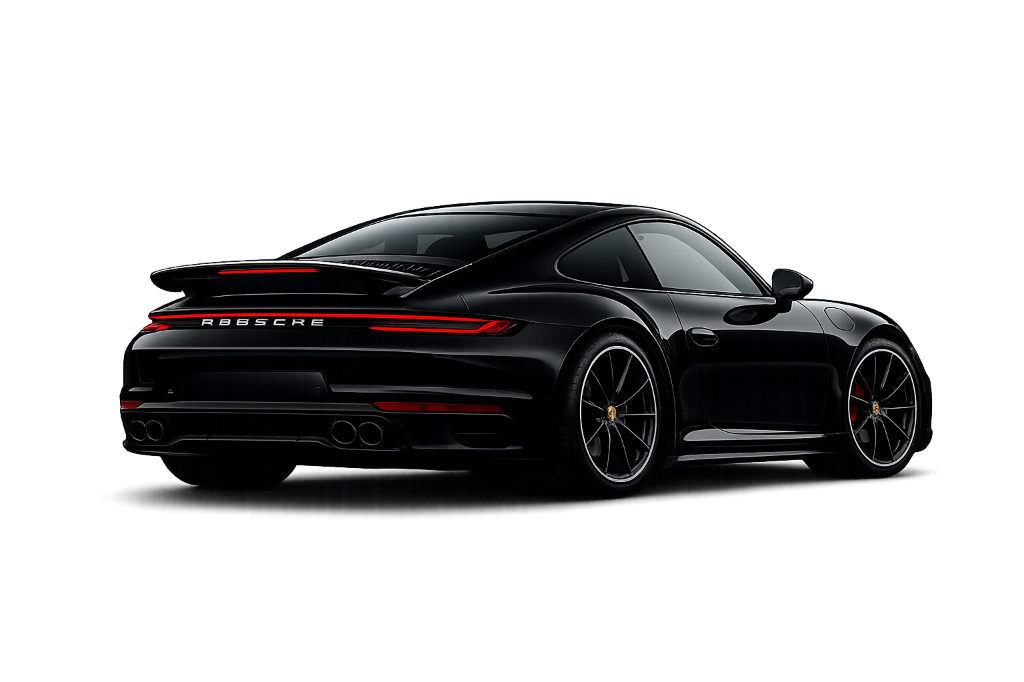
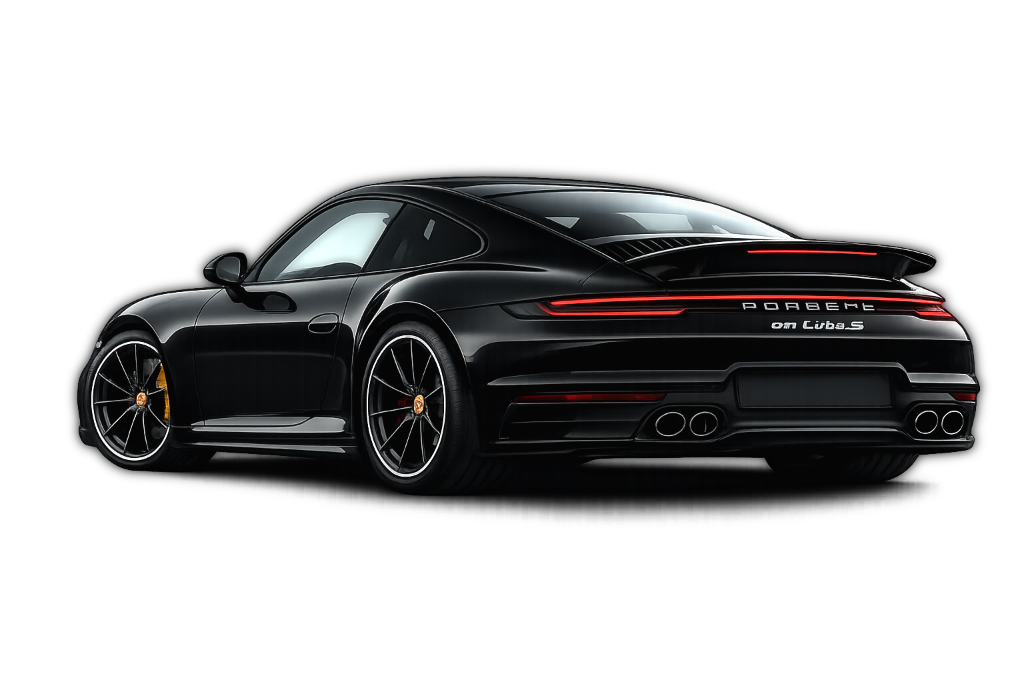
release: v2.0.0 — Porsche Command Center AI Executive Suite v2

Changed region(s): [[0.0625, 0.2463, 0.9688, 0.7698]]

diff --git a/src/pages/Overview.tsx b/src/pages/Overview.tsx
@@ -49,30 +49,30 @@ export default function Overview() {
         </div>
       </div>
 
-      {/* 2. MAIN HERO SECTION (Headline & Dual White/Black Porsche 911 Cutouts) */}
-      <div className="relative min-h-[280px] flex items-center justify-between gap-6 py-2 overflow-visible">
+      {/* 2. MAIN HERO SECTION (Headline & Massive Floating Transparent Porsche 911 Cutout) */}
+      <div className="relative min-h-[360px] flex items-center justify-between gap-4 py-2 overflow-visible">
         {/* Ambient Red Studio Lighting Glow behind the car */}
-        <div className="absolute right-[-20px] top-1/2 -translate-y-1/2 w-[550px] h-[220px] bg-porsche-red/15 rounded-full blur-[100px] pointer-events-none" />
+        <div className="absolute right-[-40px] top-1/2 -translate-y-1/2 w-[750px] h-[320px] bg-porsche-red/15 rounded-full blur-[120px] pointer-events-none" />
 
         {/* Left Side Headline & Subtitle */}
-        <div className="flex flex-col gap-3 max-w-[680px] z-10">
-          <h1 className="text-[54px] leading-[1.04] font-bold text-slate-900 dark:text-white tracking-tight">
+        <div className="flex flex-col gap-3 max-w-[580px] z-10">
+          <h1 className="text-[56px] leading-[1.04] font-bold text-slate-900 dark:text-white tracking-tight">
             Driving Porsche <br />
             <span className="text-porsche-red">Operations</span>
           </h1>
-          <p className="text-[17px] text-slate-500 dark:text-slate-400 leading-relaxed font-normal">
+          <p className="text-[18px] text-slate-500 dark:text-slate-400 leading-relaxed font-normal">
             Real-time intelligence. Smarter decisions. <br />
             Superior performance.
           </p>
         </div>
 
-        {/* Right Side Vehicle Dual Cutouts (White in Light mode, Black in Dark mode) */}
-        <div className="hidden lg:block w-[600px] h-[280px] relative shrink-0 z-10">
+        {/* Right Side Transparent Vehicle Cutouts (Massive Size: 880px x 420px) */}
+        <div className="hidden lg:block w-[880px] h-[420px] relative shrink-0 z-10 -mr-16 -mt-8">
           <VehicleImage
             lightSrc="/porsche-911-light.png"
             darkSrc="/porsche-911-dark.png"
             alt="Porsche 911 Operations Vehicle"
-            className="w-full h-full object-contain filter drop-shadow-[0_25px_35px_rgba(0,0,0,0.35)] transform hover:scale-105 transition-transform duration-500"
+            className="w-full h-full object-contain filter drop-shadow-[0_35px_50px_rgba(0,0,0,0.5)] transform hover:scale-105 transition-transform duration-500"
           />
         </div>
       </div>

diff --git a/src/components/VehicleImage.tsx b/src/components/VehicleImage.tsx
@@ -13,21 +13,21 @@ export function VehicleImage({ lightSrc, darkSrc, alt, className = '', container
   const { theme } = useTheme();
 
   return (
-    <div className={`relative overflow-hidden ${containerClassName}`}>
-      {/* Light Mode Vehicle Image (White/Silver Studio) */}
+    <div className={`relative overflow-visible ${containerClassName}`}>
+      {/* Light Mode Vehicle Image (White Porsche 911 Cutout) */}
       <img
         src={lightSrc}
-        alt={`${alt} Light Studio`}
-        className={`w-full h-full object-cover transition-opacity duration-600 ease-in-out ${
-          theme === 'light' ? 'opacity-100 scale-100' : 'opacity-0 scale-98 absolute inset-0 pointer-events-none'
+        alt={`${alt} Light`}
+        className={`w-full h-full object-contain transition-opacity duration-500 ease-in-out ${
+          theme === 'light' ? 'opacity-100 scale-100 z-10' : 'opacity-0 scale-98 absolute inset-0 pointer-events-none'
         } ${className}`}
       />
-      {/* Dark Mode Vehicle Image (Jet Black / Mission Control Cinematic) */}
+      {/* Dark Mode Vehicle Image (Black Porsche 911 Cutout) */}
       <img
         src={darkSrc}
-        alt={`${alt} Dark Cinematic`}
-        className={`w-full h-full object-cover transition-opacity duration-600 ease-in-out ${
-          theme === 'dark' ? 'opacity-100 scale-100' : 'opacity-0 scale-98 absolute inset-0 pointer-events-none'
+        alt={`${alt} Dark`}
+        className={`w-full h-full object-contain transition-opacity duration-500 ease-in-out ${
+          theme === 'dark' ? 'opacity-100 scale-100 z-10' : 'opacity-0 scale-98 absolute inset-0 pointer-events-none'
         } ${className}`}
       />
     </div>
